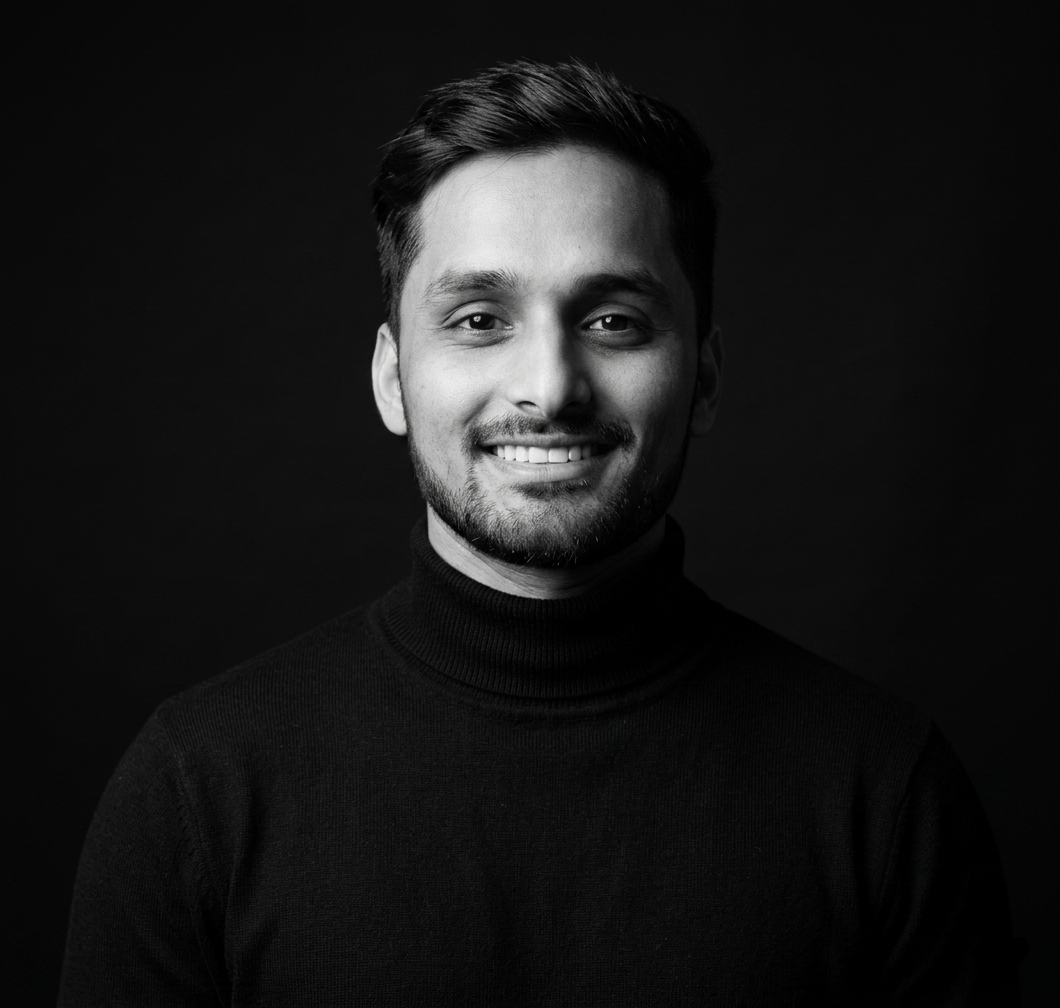
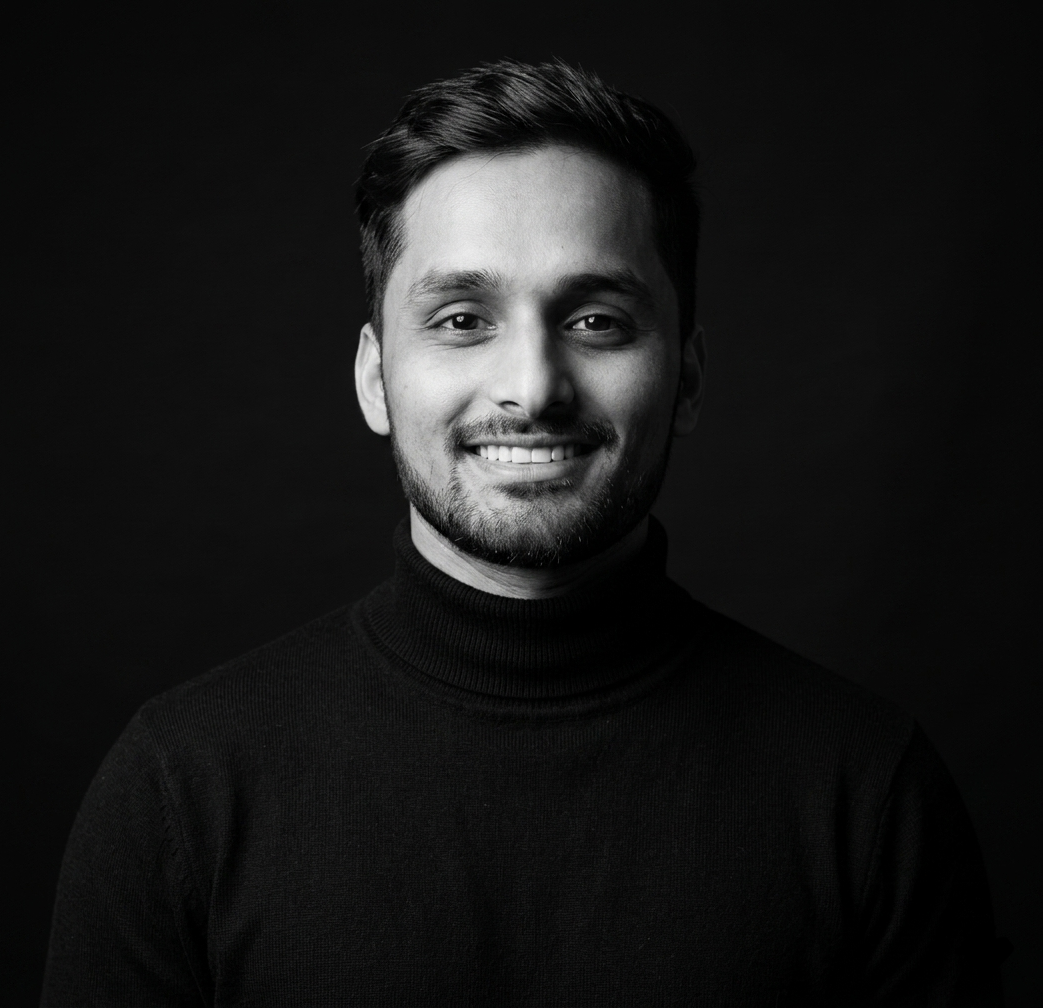
Update about-me profile picture

Changed region(s): [[0.3375, 0.0615, 0.6443, 0.6151]]

diff --git a/index.html b/index.html
@@ -217,7 +217,7 @@
 								<div class="row">
 									<div class="col-sm-6 col-md-6">
 									  <div class="about-img text-center">
-										<img src="images/about-me.png?v=6" class="img-fluid rounded b-shadow-a" style="width: 100%; margin-top: -30px;" alt="">
+										<img src="images/about-me.png?v=7" class="img-fluid rounded b-shadow-a" style="width: 100%; margin-top: -30px;" alt="">
 									  </div>
 									</div>
 									<!-- Details next to profile image -->